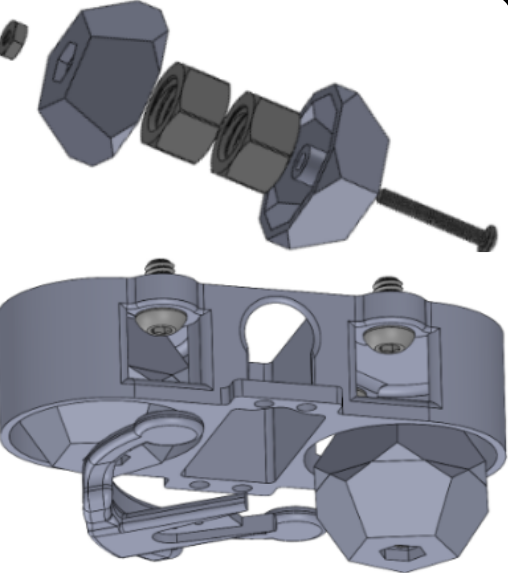
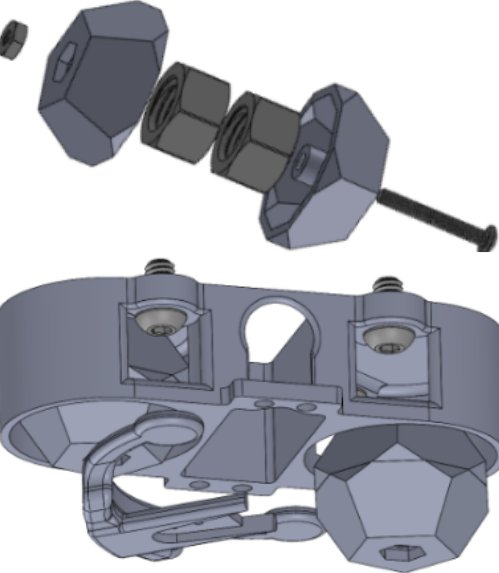
Built site for gh-pages

diff --git a/engineering_club_projects/apollyonIdesign&validation/index.html b/engineering_club_projects/apollyonIdesign&validation/index.html
@@ -7,7 +7,7 @@
 <meta name="viewport" content="width=device-width, initial-scale=1.0, user-scalable=yes">
 
 
-<title>index – Jacob Fain HMC'26</title>
+<title>Apollyon I Design &amp; Validation – Jacob Fain HMC’26</title>
 <style>
 code{white-space: pre-wrap;}
 span.smallcaps{font-variant: small-caps;}
@@ -131,12 +131,29 @@ ul.task-list li input[type="checkbox"] {
         
     </div>
 <!-- main -->
-<main class="content" id="quarto-document-content"><header id="title-block-header" class="quarto-title-block"></header>
+<main class="content" id="quarto-document-content">
+
+<header id="title-block-header" class="quarto-title-block default">
+<div class="quarto-title">
+<h1 class="title">Apollyon I Design &amp; Validation</h1>
+</div>
 
 
 
+<div class="quarto-title-meta">
 
-<p>In my freshman and sophomore years, I worked on Mudd Amateur Rocketry Club’s competition rocket, Gladius II, learning about mechanical and structural design and fabrication through hands-on experience. After an unsuccessful launch, I went into junior year as the competition team’s Associate Structures Lead, excited to address mechanical issues and reach (literally) new heights with Gladius III. The attached cover letter discusses some of the specific design and fabrication work that I spearheaded. In particular, I am proudest of the week leading up to Gladius III’s launch this summer, in which I resolved last-minute assembly issues, including redesigning an avionics housing from scratch, working around pre-existing structures that I had designed with a completely different housing in mind. My teammates and I pulled together for our first successful launch and recovery, achieving 3rd place at the competition. It was the culmination of three years of my engineering experience, with a number of failures, discoveries, and fun memories with teammates along the way. I was so excited about it that I even made this highlight video: https://www.youtube.com/watch?v=yjIJ5FdSvIw.</p>
+    
+  
+    
+  </div>
+  
+
+
+</header>
+
+
+<hr>
+<p>stock airframe lengths to reduce cost, wasted material, and machining work on our part</p>
 
 
 

diff --git a/engineering_club_projects/gladiusIIIassembly&launch/index.html b/engineering_club_projects/gladiusIIIassembly&launch/index.html
@@ -7,7 +7,7 @@
 <meta name="viewport" content="width=device-width, initial-scale=1.0, user-scalable=yes">
 
 
-<title>index – Jacob Fain HMC'26</title>
+<title>Gladius III Assembly &amp; Launch – Jacob Fain HMC’26</title>
 <style>
 code{white-space: pre-wrap;}
 span.smallcaps{font-variant: small-caps;}
@@ -131,11 +131,28 @@ ul.task-list li input[type="checkbox"] {
         
     </div>
 <!-- main -->
-<main class="content" id="quarto-document-content"><header id="title-block-header" class="quarto-title-block"></header>
+<main class="content" id="quarto-document-content">
+
+<header id="title-block-header" class="quarto-title-block default">
+<div class="quarto-title">
+<h1 class="title">Gladius III Assembly &amp; Launch</h1>
+</div>
 
 
 
+<div class="quarto-title-meta">
 
+    
+  
+    
+  </div>
+  
+
+
+</header>
+
+
+<hr>
 <p>In my freshman and sophomore years, I worked on Mudd Amateur Rocketry Club’s competition rocket, Gladius II, learning about mechanical and structural design and fabrication through hands-on experience. After an unsuccessful launch, I went into junior year as the competition team’s Associate Structures Lead, excited to address mechanical issues and reach (literally) new heights with Gladius III. The attached cover letter discusses some of the specific design and fabrication work that I spearheaded. In particular, I am proudest of the week leading up to Gladius III’s launch this summer, in which I resolved last-minute assembly issues, including redesigning an avionics housing from scratch, working around pre-existing structures that I had designed with a completely different housing in mind. My teammates and I pulled together for our first successful launch and recovery, achieving 3rd place at the competition. It was the culmination of three years of my engineering experience, with a number of failures, discoveries, and fun memories with teammates along the way. I was so excited about it that I even made this highlight video: https://www.youtube.com/watch?v=yjIJ5FdSvIw.</p>
 
 

diff --git a/engineering_club_projects/index.html b/engineering_club_projects/index.html
@@ -201,7 +201,7 @@ ul.task-list li input[type="checkbox"] {
 <section id="gladius-iii-assembly-launch" class="level3">
 <h3 class="anchored" data-anchor-id="gladius-iii-assembly-launch"><a href="https://jacobfain026.github.io/JF_HMC26/engineering_club_projects/gladiusIIIassembly&amp;launch">Gladius III Assembly &amp; Launch</a></h3>
 <p>Unfortunately, the design work for Gladius III spanned almost the entire 24-25 school year, leaving almost all of the assembly work for the last few weeks of school. That wasn’t enough, but by pulling together over the first couple weeks of the summer, a handful of us were able to finish building the rocket just hours before its launch. After solving various last-minute issues at the launch site, we achieved Mudd’s first flawless launch and recovery and took home 3rd place at the FAR’25 competition! Here’s a recap:</p>
-<iframe width="1089" height="612" src="https://www.youtube.com/embed/yjIJ5FdSvIw" title="MARC FAR'25 Launch Recap" frameborder="0" allow="accelerometer; autoplay; clipboard-write; encrypted-media; gyroscope; picture-in-picture; web-share" referrerpolicy="strict-origin-when-cross-origin" allowfullscreen="">
+<iframe width="800" height="450" src="https://www.youtube.com/embed/yjIJ5FdSvIw" title="MARC FAR'25 Launch Recap" frameborder="0" allow="accelerometer; autoplay; clipboard-write; encrypted-media; gyroscope; picture-in-picture; web-share" referrerpolicy="strict-origin-when-cross-origin" allowfullscreen="">
 </iframe>
 </section>
 <section id="gladius-iii-design-validation" class="level3">
